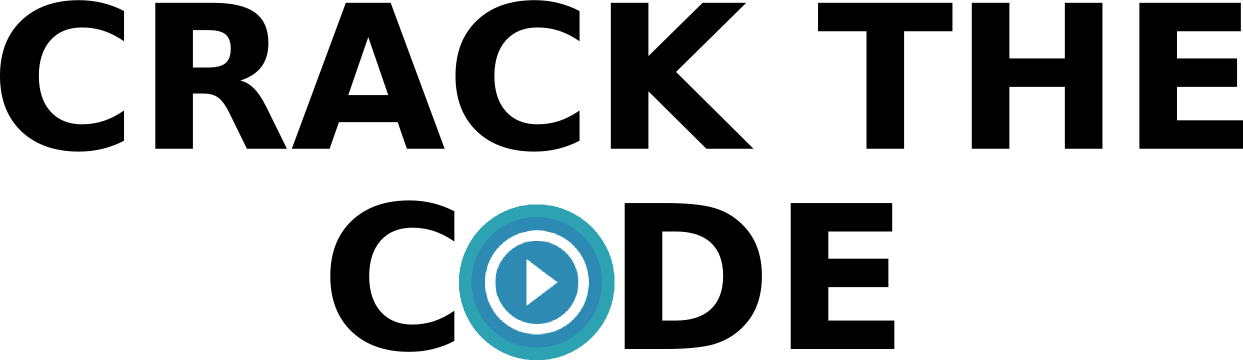
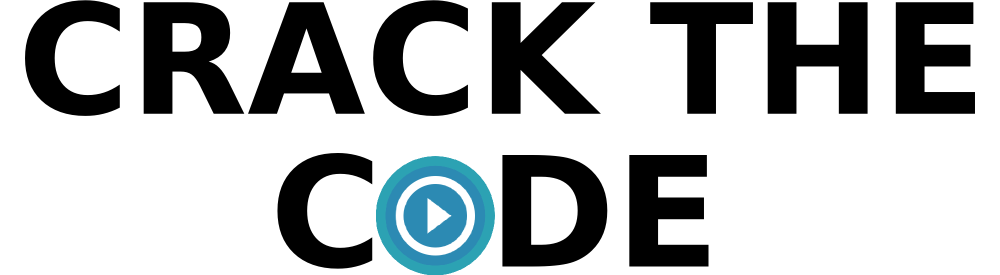
Changed Menu Title

diff --git a/core/src/com/desitum/crackTheCode/world/MenuRenderer.java b/core/src/com/desitum/crackTheCode/world/MenuRenderer.java
@@ -32,7 +32,7 @@ public class MenuRenderer {
             menuItem.draw(menuBatch);
         }
 
-        menuBatch.draw(Assets.menuTitleTexture, 0, 11, 10, 4);
+        menuBatch.draw(Assets.menuTitleTexture, 0, 11, 10, 3);
     }
 
     public void resetCam() {
